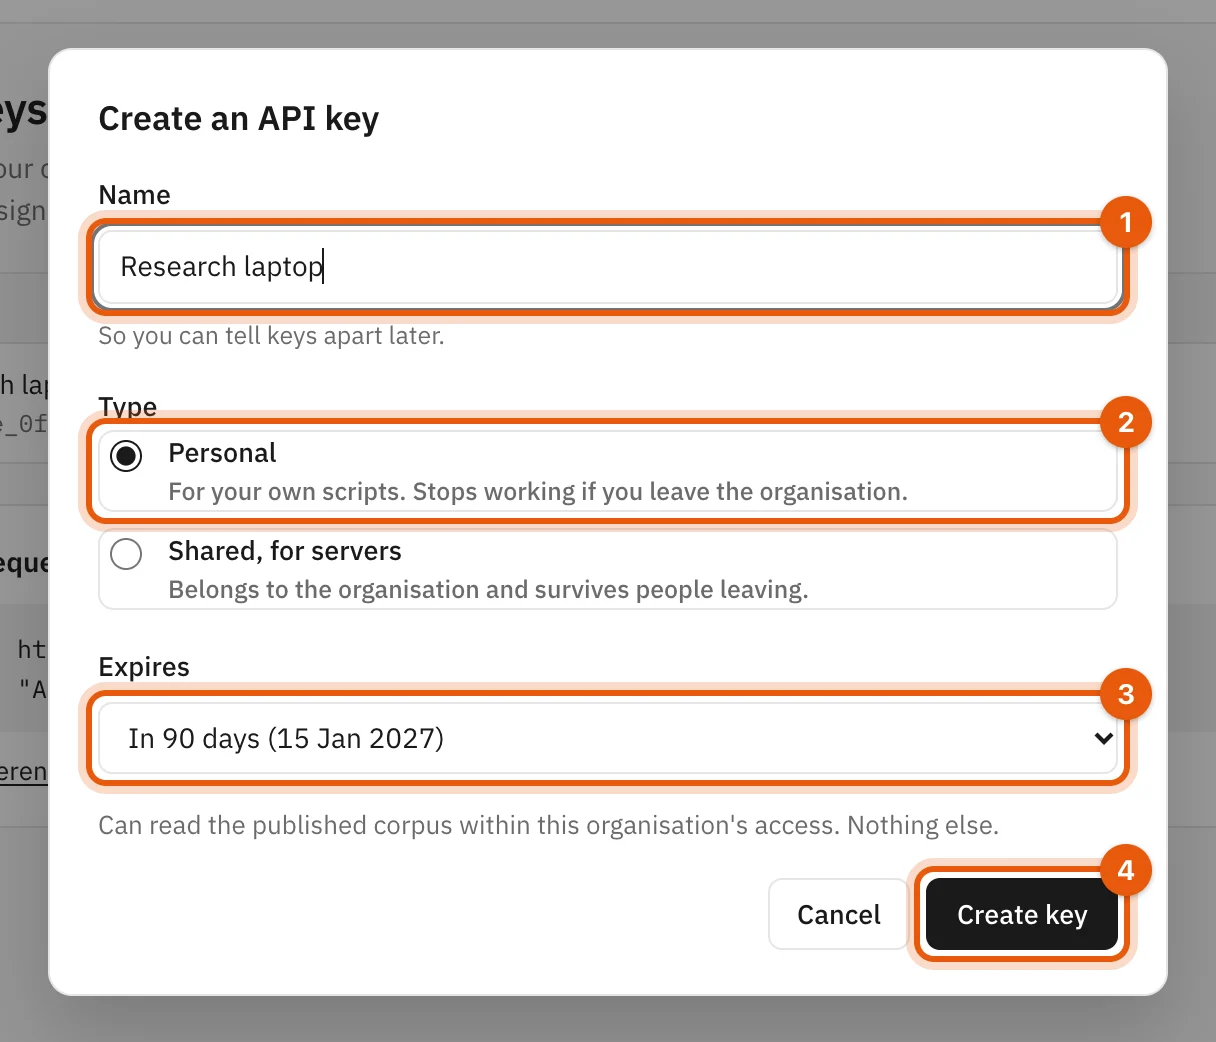
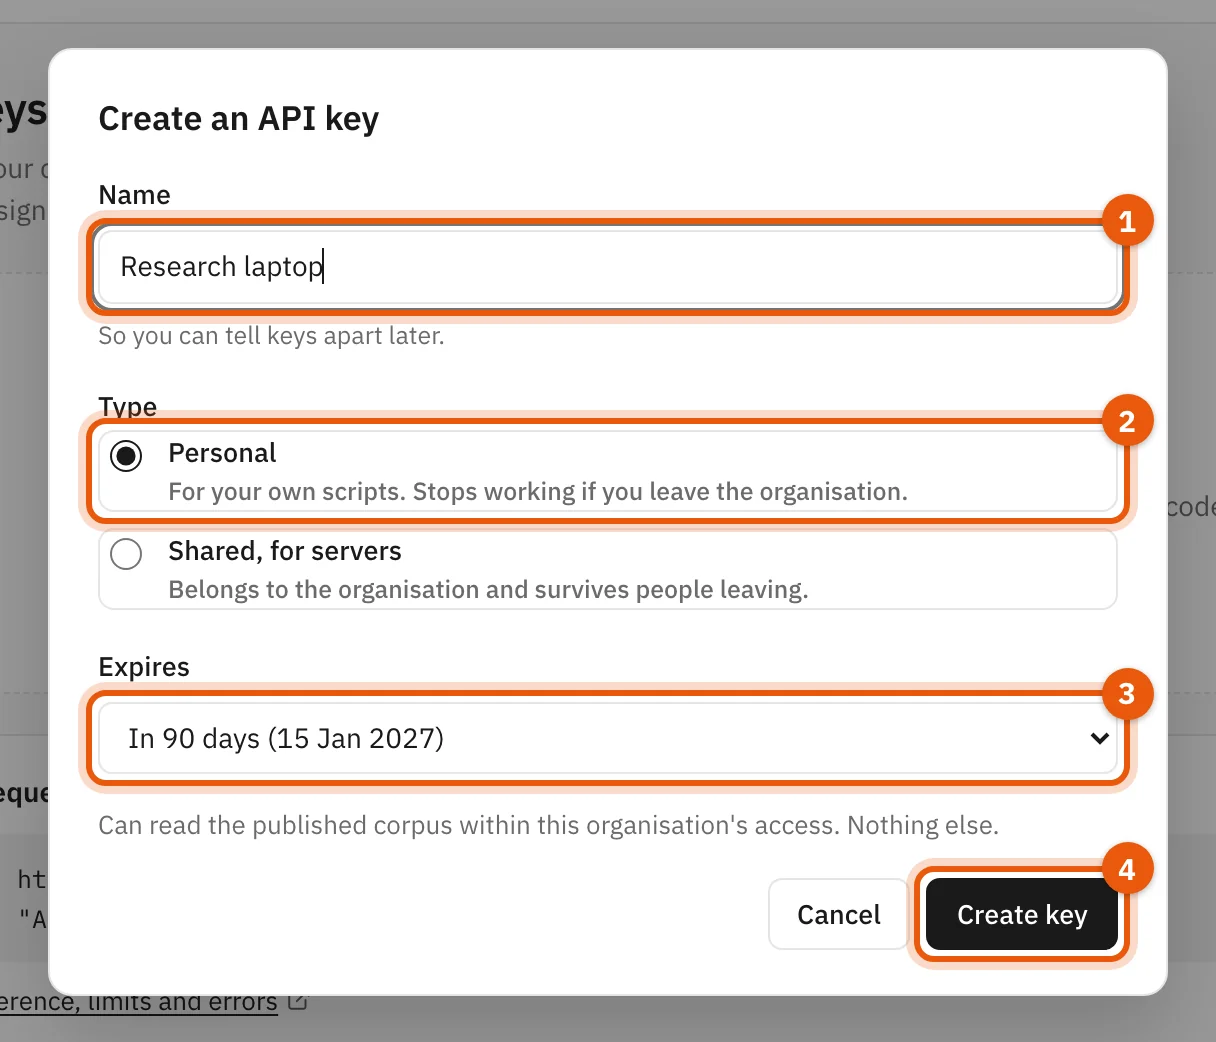
The console guide's pictures show example keys and signing secrets, not blurred real-looking ones
The pictures of a new API key, the keys list, usage and a webhook endpoint's signing secret blurred the
values but left a key's first characters and last four readable, and the key form's background showed part
of the key too. All five are retaken from the console's own code, built locally and run against a mock of
its API, with values that are plainly examples in the real formats: the key
oa_live_00000000000000000000000000000000_EXAMPLE-DUMMY-NOT-A-REAL-KEY-FOR-DOCS-00000 and the secret
whsec_EXAMPLE-SIGNING-SECRET-NOT-A-REAL-ONE-00000. Nothing is blurred, and the guide says these are
examples where it said they were blurred.

The new-monitor and upgrade-request pictures count Nigeria's records as the published catalogue does now:
5, not 4. The new-monitor form offers nine kinds of change since the picture was taken, so that picture is
taller (608 by 873). The others keep their sizes, crops, numbered marks, made-up organisation and date
(17 October 2026).

diff --git a/web/src/docs/images.ts b/web/src/docs/images.ts
@@ -17,7 +17,7 @@ export const SIZES: Record<string, [number, number]> = {
   consent: [588, 578],
   "apps-list": [1280, 800],
   "monitor-empty": [1280, 800],
-  "monitor-new": [608, 826],
+  "monitor-new": [608, 873],
   "monitor-preview": [558, 145],
   "monitor-inbox": [1280, 800],
   "record-monitor": [417, 280],

diff --git a/web/src/docs/content/console.md b/web/src/docs/content/console.md
@@ -70,10 +70,10 @@ A key lets your code call the REST API and MCP. Claude, ChatGPT and Codex don't 
 
 ![The Create an API key form: name, type, expiry and Create key](/guide/key-create.webp)
 
-- {1} **Copy** the key. This is the only time it is shown: store it in a password manager or your server's secret store. (It is blurred in this picture.)
+- {1} **Copy** the key. This is the only time it is shown: store it in a password manager or your server's secret store. (The key in this picture is an example, not a real one.)
 - {2} **I've stored it** closes the window.
 
-![The new key, blurred, with a Copy button, a sample request and I've stored it](/guide/key-created.webp)
+![The new key, an example value, with a Copy button, a sample request and I've stored it](/guide/key-created.webp)
 
 Then make your first request, with the key in the Authorization header ([Quickstart](/docs/quickstart)):
 
@@ -188,9 +188,9 @@ On every plan except Starter, webhooks send your monitors' matches to your own H
 
 ![The Add a webhook endpoint form: endpoint URL, description, monitors and Add endpoint](/guide/webhooks-add.webp)
 
-Copy the signing secret: it is shown only once (blurred here). We then send your endpoint a challenge. To answer it, reply to that first POST, of type `endpoint.verification`, with a 2xx status and the body `{"challenge": "<the challenge>"}`. If your endpoint wasn't ready, choose **Verify** later to try again.
+Copy the signing secret: it is shown only once (the one here is an example). We then send your endpoint a challenge. To answer it, reply to that first POST, of type `endpoint.verification`, with a 2xx status and the body `{"challenge": "<the challenge>"}`. If your endpoint wasn't ready, choose **Verify** later to try again.
 
-![The endpoint's signing secret, blurred, and how to verify the endpoint](/guide/webhooks-secret.webp)
+![The endpoint's signing secret, an example value, and how to verify the endpoint](/guide/webhooks-secret.webp)
 
 Each endpoint has **Verify**, **Send test**, **Deliveries** (what was sent and how it answered), **Rotate secret** and **Delete**. **How to receive deliveries** on the page has sample code.
 

diff --git a/web/src/docs/content/quickstart.md b/web/src/docs/content/quickstart.md
@@ -21,7 +21,7 @@ You will create an API key, search the catalogue and read one record. You need a
 
 3. Copy the key. It is shown only once.
 
-![The new key, blurred, with a Copy button](/guide/key-created.webp)
+![The new key, an example value, with a Copy button](/guide/key-created.webp)
 
 > Note: On a paid or approved plan, owners and admins confirm a second factor before creating keys. The console asks when it's needed; see [Authentication](/docs/authentication#second-factor).
 
